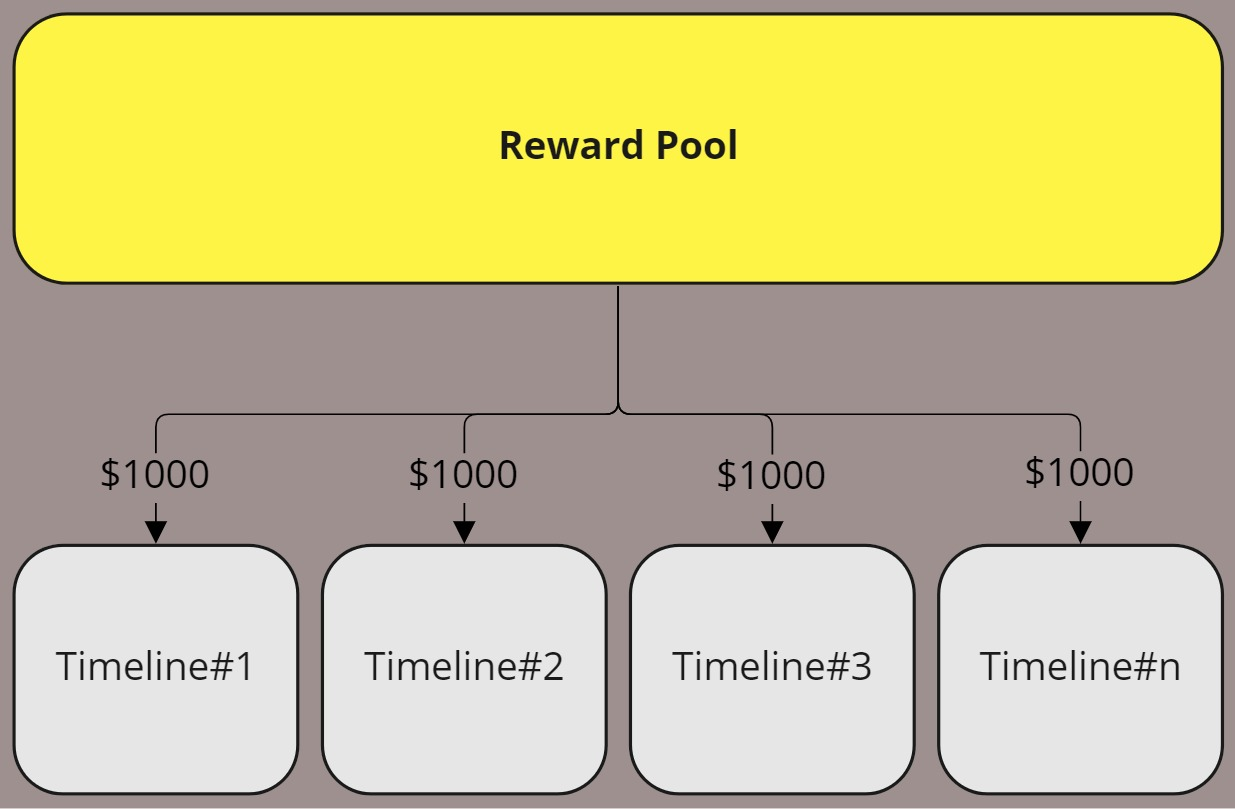
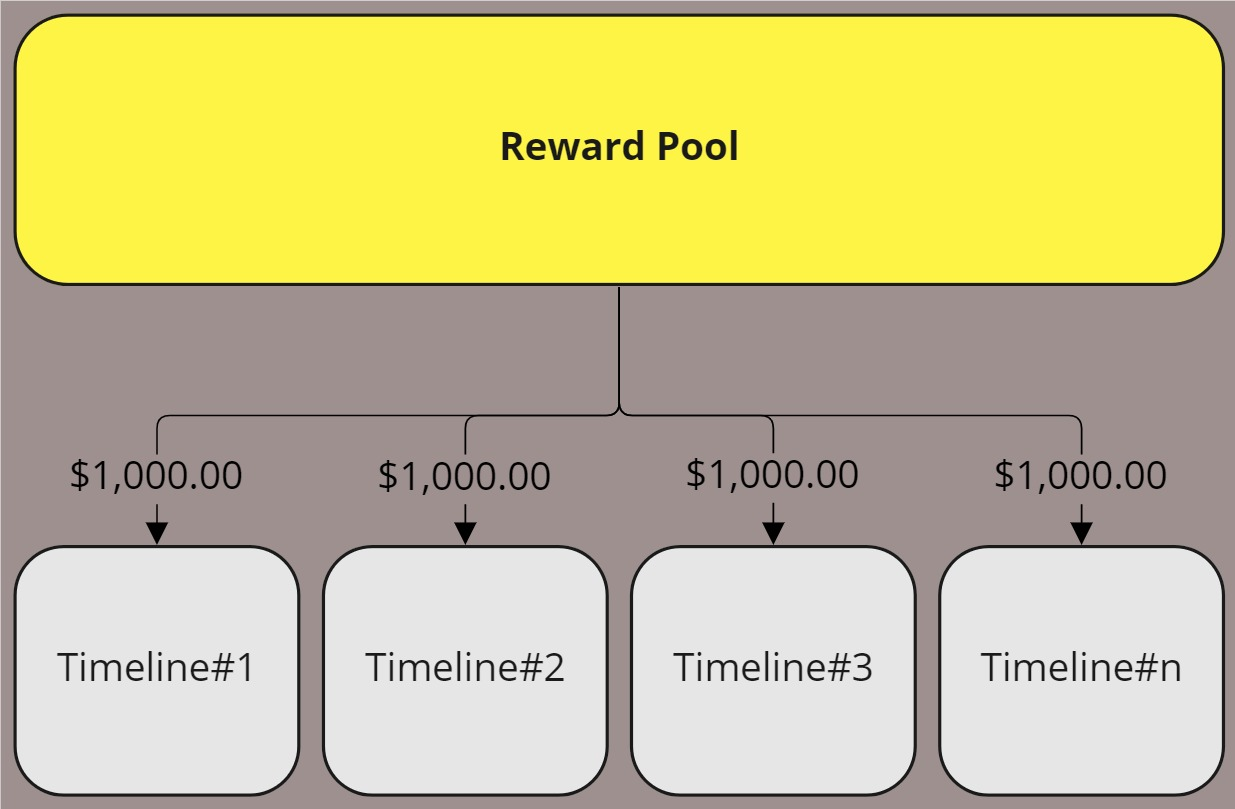
GitBook: [#139] No subject

diff --git a/i-want-to-know-more/funds-allocation.md b/i-want-to-know-more/funds-allocation.md
@@ -64,7 +64,7 @@ Each month CIP yield will be distributed to:
 * 20% from [Colony Investment Program (CIP)](funds-allocation.md#colony-investment-program-cip)
 
 {% hint style="info" %}
-_We will allocate **2.5%** out of the minting proceeds to Reward Pool, thus ensuring a reward to be distributed for each Timeline even before Royalty and CIP kick in._
+_By allocating 2.5% of minting proceeds to the Reward Pool, we ensure a reward payment for each Timeline even before royalties and CIP arrive in the Reward Pool Wallet._
 {% endhint %}
 
 ![](<../.gitbook/assets/Finance - Reward Pool.jpg>)

diff --git a/lets-terraform-the-nft-culture/reward-system.md b/lets-terraform-the-nft-culture/reward-system.md
@@ -7,7 +7,7 @@ Our goal is to build a sustainable community that encourages the Memory holder t
 Memory holders who completed the Timeline and ended up in the Top 10 Bi-weekly Leaderboards will receive a portion of **$UST** from the Reward Pool.&#x20;
 
 {% hint style="success" %}
-_There will be a reward of **$1000** or more available for **10 players** who score the most points each cycle._
+_There will be a reward of **$1,000.00** or more available for **10 players** who score the most points each cycle._
 {% endhint %}
 
 ### Timeline winners allocation:
